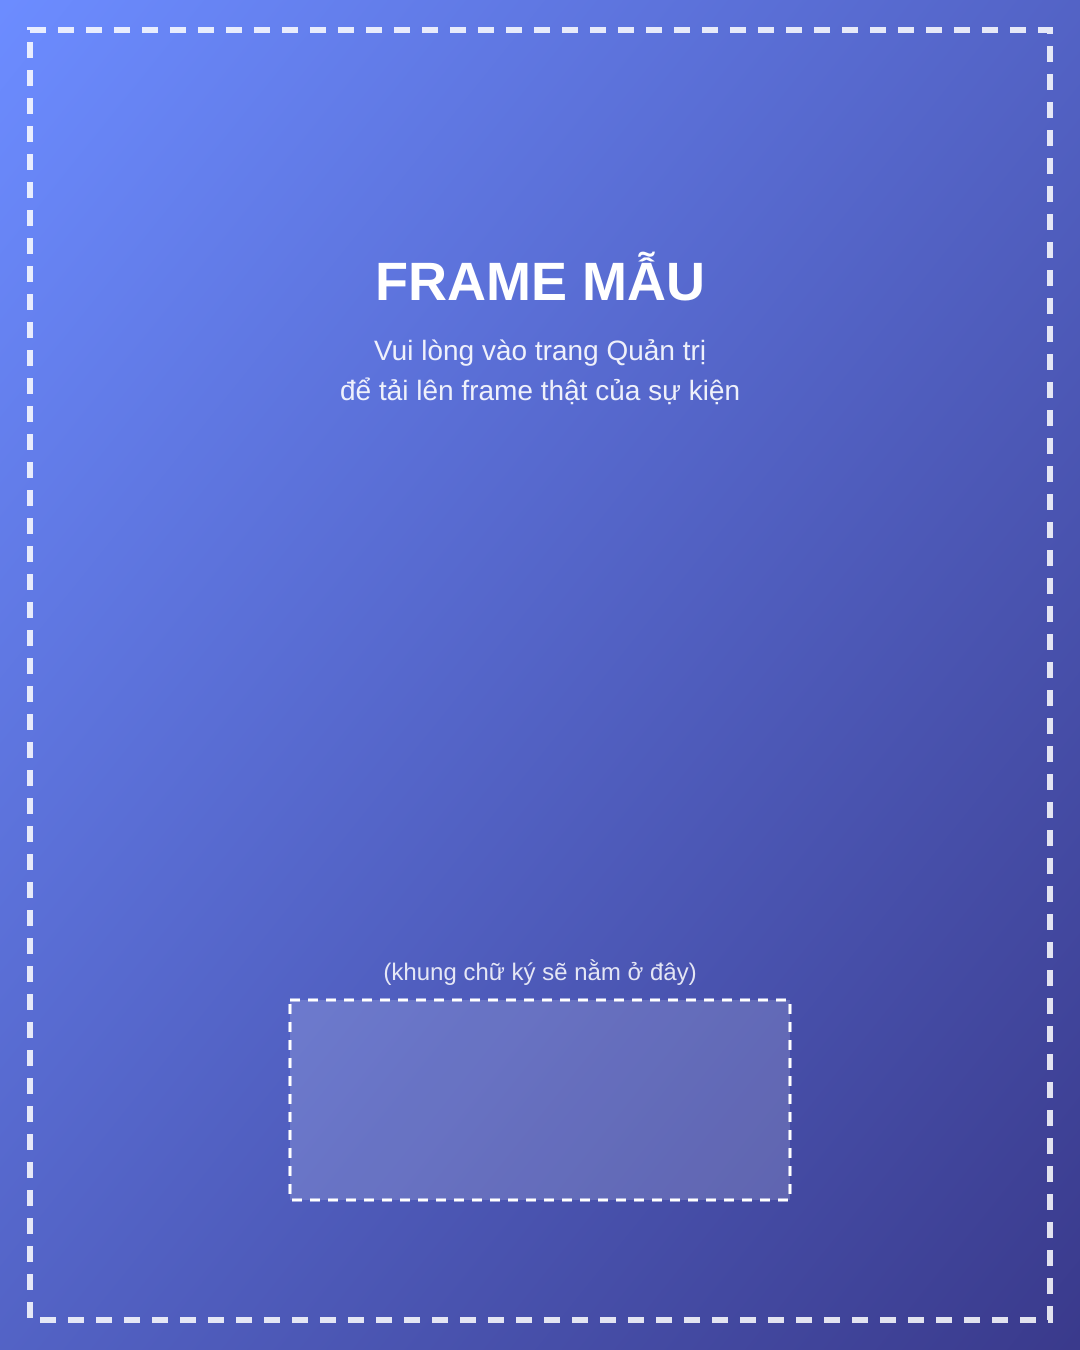
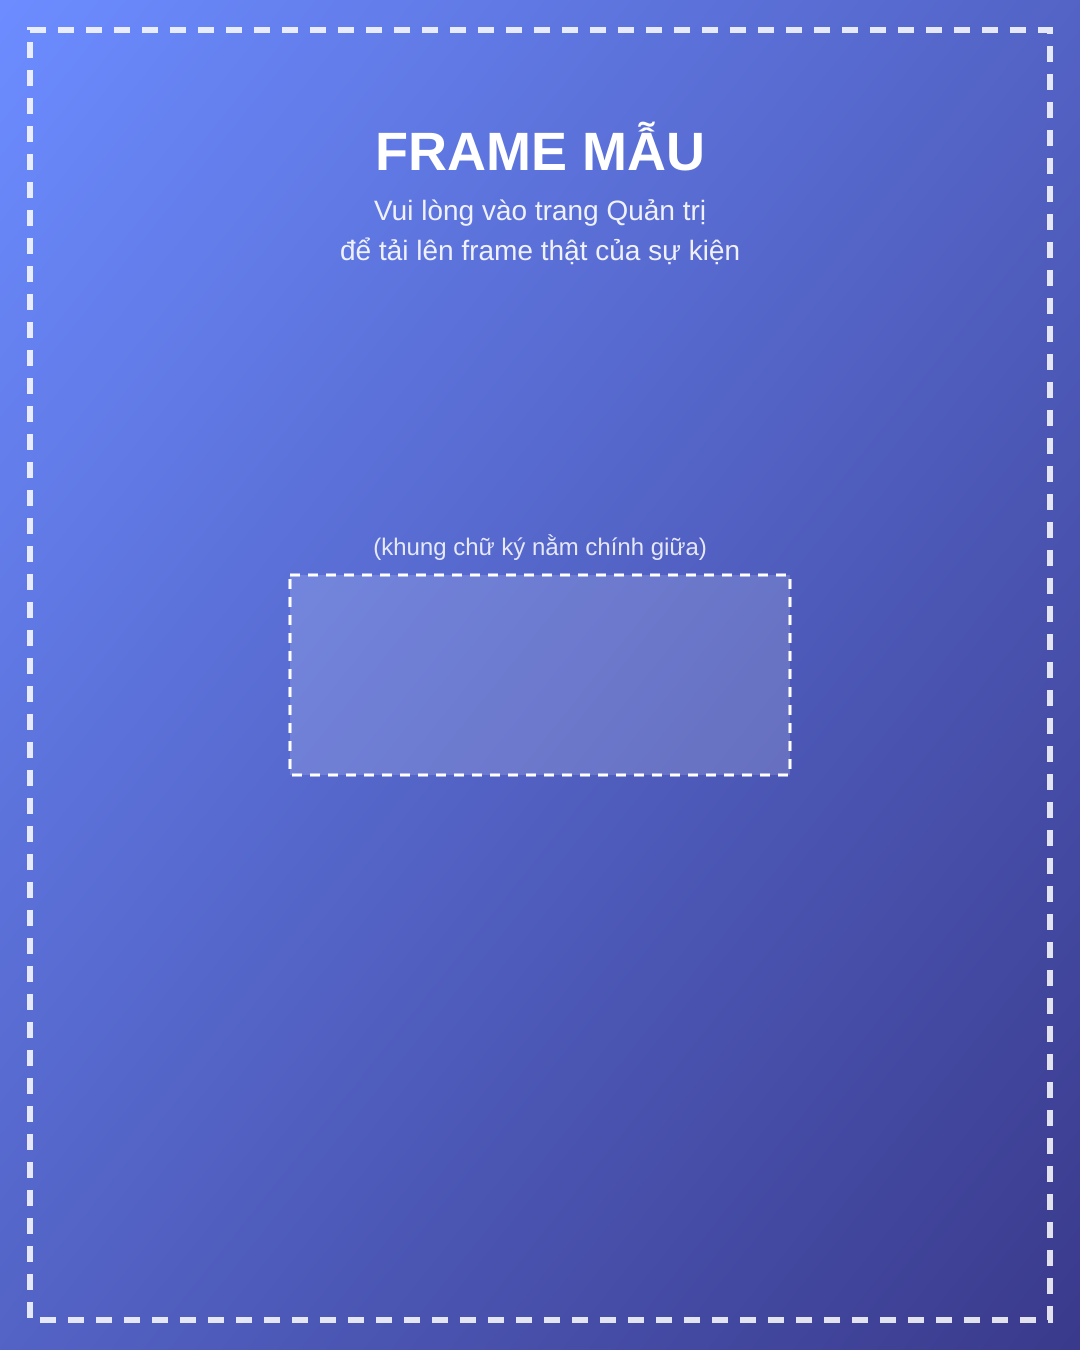
Version 3

diff --git a/server.js b/server.js
@@ -13,8 +13,20 @@ const compositor = require('./src/compositor');
 
 const app = express();
 const PORT = process.env.PORT || 3000;
-const BASE_URL = (process.env.BASE_URL || `http://localhost:${PORT}`).replace(/\/$/, '');
 const ADMIN_PASSWORD = process.env.ADMIN_PASSWORD || 'changeme';
+
+// Can thiet khi chay sau reverse proxy (Render, Nginx...) de req.protocol
+// nhan dung 'https' thay vi 'http'
+app.set('trust proxy', true);
+
+// Uu tien BASE_URL neu admin da set thu cong trong bien moi truong.
+// Neu KHONG set (hoac quen set khi deploy), tu dong lay domain that
+// tu chinh request dang goi toi (vd form-event-mpea.onrender.com),
+// tranh bi fallback nham ve localhost khi len production.
+function getBaseUrl(req) {
+  if (process.env.BASE_URL) return process.env.BASE_URL.replace(/\/$/, '');
+  return `${req.protocol}://${req.get('host')}`;
+}
 
 // Dam bao thu muc data ton tai
 fs.mkdirSync(path.join(__dirname, 'data', 'photos'), { recursive: true });
@@ -62,7 +74,7 @@ app.post('/api/submit', async (req, res) => {
       photoFile,
     });
 
-    const photoPageUrl = `${BASE_URL}/photo/${id}`;
+    const photoPageUrl = `${getBaseUrl(req)}/photo/${id}`;
     const qrDataUrl = await QRCode.toDataURL(photoPageUrl, { width: 400, margin: 1 });
 
     res.json({ id, qrDataUrl, photoPageUrl });
@@ -77,10 +89,11 @@ app.get('/photo/:id', (req, res) => {
   const entry = db.getEntry(req.params.id);
   if (!entry) return res.status(404).send('Không tìm thấy ảnh.');
 
+  const baseUrl = getBaseUrl(req);
   res.render('photo', {
-    imageUrl: `${BASE_URL}/photos/${entry.photo_file}`,
-    pageUrl: `${BASE_URL}/photo/${entry.id}`,
-    downloadUrl: `${BASE_URL}/download/${entry.id}`,
+    imageUrl: `${baseUrl}/photos/${entry.photo_file}`,
+    pageUrl: `${baseUrl}/photo/${entry.id}`,
+    downloadUrl: `${baseUrl}/download/${entry.id}`,
     name: entry.name,
   });
 });
@@ -185,5 +198,9 @@ app.get('/admin/export', requireAdmin, async (req, res) => {
 
 app.listen(PORT, () => {
   console.log(`Server dang chay tai http://localhost:${PORT}`);
-  console.log(`BASE_URL (dung cho QR/OG tags): ${BASE_URL}`);
+  if (process.env.BASE_URL) {
+    console.log(`BASE_URL (co dinh, dung cho QR/OG tags): ${process.env.BASE_URL}`);
+  } else {
+    console.log('BASE_URL chua duoc set - se tu dong lay domain that tu request (khuyen nghi van nen set BASE_URL tren production de dam bao chinh xac).');
+  }
 });

diff --git a/src/compositor.js b/src/compositor.js
@@ -10,7 +10,7 @@ const PHOTOS_DIR = path.join(DATA_DIR, 'photos');
 const FRAME_WIDTH = parseInt(process.env.FRAME_WIDTH || '1080', 10);
 const FRAME_HEIGHT = parseInt(process.env.FRAME_HEIGHT || '1350', 10);
 const SIG_X = parseInt(process.env.SIGNATURE_X || '290', 10);
-const SIG_Y = parseInt(process.env.SIGNATURE_Y || '1000', 10);
+const SIG_Y = parseInt(process.env.SIGNATURE_Y || '575', 10);
 const SIG_W = parseInt(process.env.SIGNATURE_WIDTH || '500', 10);
 const SIG_H = parseInt(process.env.SIGNATURE_HEIGHT || '200', 10);
 
